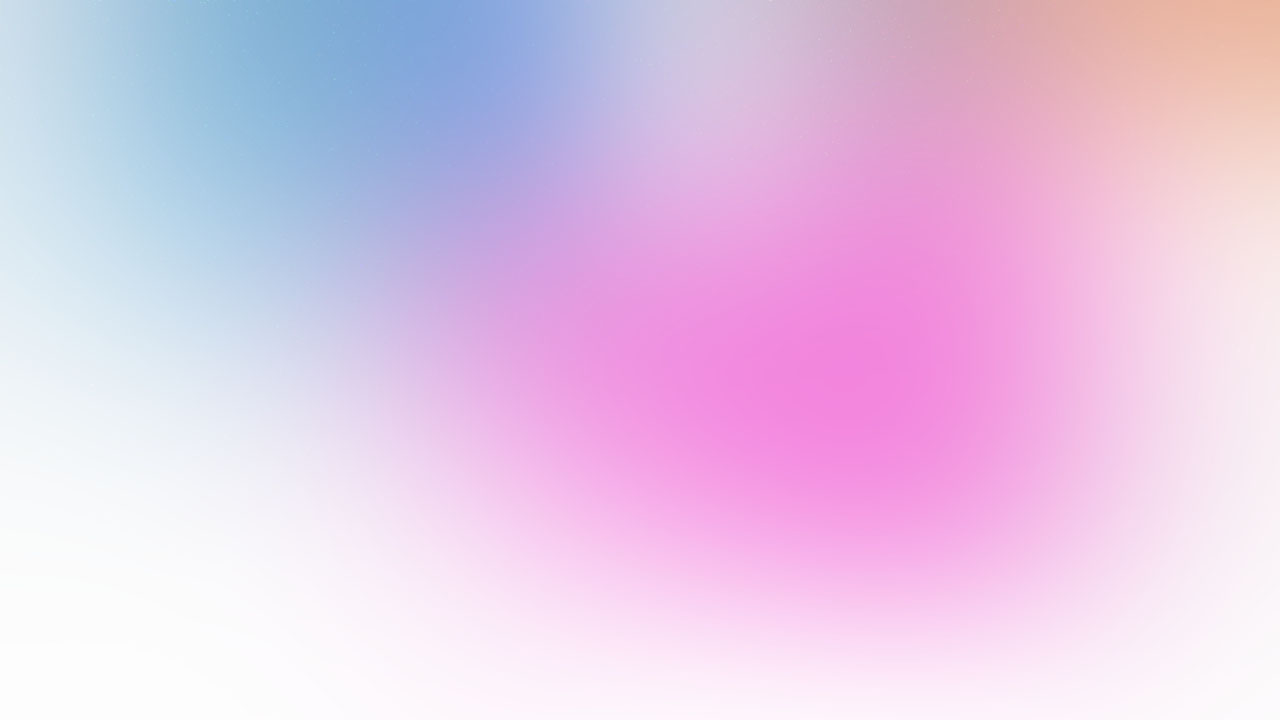
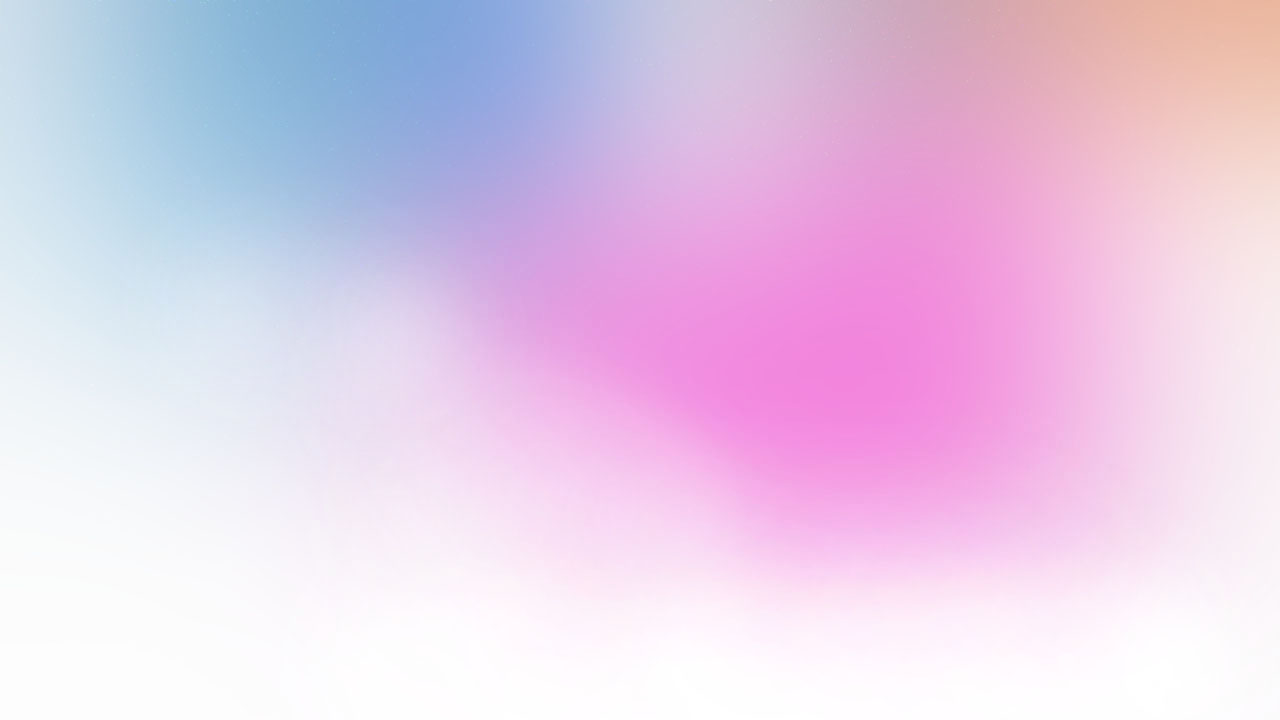
update

Changed region(s): [[0.4062, 0.5806, 0.8125, 0.9167]]

diff --git a/RRF-100-Plus-section-HTML5/exam-3/index.html b/RRF-100-Plus-section-HTML5/exam-3/index.html
@@ -22,10 +22,10 @@
             <div class="header-area">
                 <div class="container">
                     <div class="row">
-                        <div class="col-sm-6">
+                        <div class="col-md-6">
                             <h2><a href="#" class="logo">Nebula</a></h2>
                         </div>
-                        <div class="col-sm-6 text-right">
+                        <div class="col-md-6 text-right">
                             <a href="#" class="contact">Contact</a>
                         </div>
                     </div>
@@ -35,16 +35,20 @@
             
             <!-- Start Welcome hero area -->
             <div class="welcome-hero-area">
-                <div class="container">
-                    <div class="row">
-                        <div class="col-md-6">
-                            <div class="hero-text">
-                                <h1>Something started forming. <br/> And it will take shape soon.</h1>
-                                <p>Nebula Interactive is a technology company started in Spring 2015 by Lukas Muller and Jorge Sanz Perez over the internet. <a href="#" class="more">More</a></p>
+                <div class="hero-area-table">
+                    <div class="hero-area-table-cell">
+                        <div class="container">
+                            <div class="row">
+                                <div class="col-md-6">
+                                    <div class="hero-text">
+                                        <h1>Something started forming. <br/> And it will take shape soon.</h1>
+                                        <p>Nebula Interactive is a technology company started in Spring 2015 by Lukas Muller and Jorge Sanz Perez over the internet. <a href="#" class="more">More</a></p>
+                                    </div>
+                                </div>
                             </div>
                         </div>
                     </div>
-                </div>
+                 </div>
             </div>
             <!-- End Welcome hero area -->
 
@@ -52,10 +56,10 @@
             <div class="footer-area">
                 <div class="container">
                     <div class="row">
-                        <div class="col-sm-6">
+                        <div class="col-md-6">
                             &copy; 2015 Nebula Interactive
                         </div>
-                        <div class="col-sm-6 text-right">
+                        <div class="col-md-6 text-right">
                             <a href="#"><i class="fa fa-facebook"></i></a>
                             <a href="#"><i class="fa fa-twitter"></i></a>
                             <a href="#"><i class="fa fa-google-plus"></i></a>

diff --git a/RRF-100-Plus-section-HTML5/exam-3/assets/css/responsive.css b/RRF-100-Plus-section-HTML5/exam-3/assets/css/responsive.css
@@ -1,71 +1,19 @@
 /* Medium Layout: 1280px. */
-
-@media only screen and (min-width: 992px) and (max-width: 1200px) {}
-
+@media only screen and (min-width: 992px) and (max-width: 1200px) { 
+  
+    
+}
 /* Tablet Layout: 768px. */
-
-@media only screen and (min-width: 768px) and (max-width: 991px) {
+@media only screen and (min-width: 768px) and (max-width: 991px) { 
+ 
+    
 }
-
 /* Mobile Layout: 320px. */
-
-@media only screen and (max-width: 767px) {
-    .header-area {
-        text-align: center;
-        padding-top: 40px
-    }
-    .header-area .col-sm-6.text-right {
-        text-align: center;
-        margin-top: 15px;
-    }
-    .welcome-hero-area {
-        padding: 100px 0px;
-        text-align: center;
-    }
-    .hero-text h1 {
-        font-size: 36px
-    }
-    .footer-area {
-        text-align: center;
-    }
-    .footer-area .col-sm-6.text-right {
-        margin-top: 20px;
-        text-align: center;
-    }
-    .footer-area a {
-        margin: 0px 10px;
-    }
+@media only screen and (max-width: 767px) { 
+ 
+    
 }
-
 /* Wide Mobile Layout: 480px. */
+@media only screen and (min-width: 480px) and (max-width: 767px) { 
 
-@media only screen and (min-width: 480px) and (max-width: 767px) {
-	 .header-area {
-        text-align: center;
-        padding-top: 40px
-    }
-    .header-area .col-sm-6.text-right {
-        text-align: center;
-        margin-top: 15px;
-    }
-    .welcome-hero-area {
-        padding: 100px 0px;
-        text-align: center;
-    }
-    .hero-text{
-    	max-width: inherit;
-    }
-    .hero-text h1 {
-        font-size: 36px
-    }
-    .footer-area {
-        text-align: center;
-    }
-    .footer-area .col-sm-6.text-right {
-        margin-top: 20px;
-        text-align: center;
-    }
-    .footer-area a {
-        margin: 0px 10px;
-    }
 }

diff --git a/RRF-100-Plus-section-HTML5/exam-3/assets/css/style.css b/RRF-100-Plus-section-HTML5/exam-3/assets/css/style.css
@@ -4,6 +4,9 @@ img {
     max-width: 100%;
     height: auto;
 }
+html, body,.welcome-hero-area {
+  height: 100%
+}
 h1,
 h2,
 h3,
@@ -24,8 +27,9 @@ a:hover { text-decoration: none; color:inherit; }
 .nebula-wrapper {
   background-image: url(../img/bg.jpg);
   background-color: #ddd;
-  background-position: center;
+  background-position: center top;
   background-size: cover;
+  height: 100%;
 }
 a.logo {
     color: #262d30;
@@ -37,7 +41,11 @@ a.logo {
   margin: 0;
 }
 .header-area {
-  padding-top: 80px;
+  padding-top: 70px;
+  position: absolute;
+  left: 0;
+  top: 0;
+  width: 100%
 }
 .contact {
   color: #262d30;
@@ -53,15 +61,21 @@ a.logo {
   width: 0%;
   height: 2px;
   background-color: #333;
-  -webkit-transition: .3s;
   transition: .3s
 }
 .contact:hover:after, .more:hover:after {
   width: 100%
 }
-.welcome-hero-area {
-  padding: 180px 0px;
+.hero-area-table{
+  display: table;
+  width: 100%;
+  height: 100%;
+
 }
+.hero-area-table-cell{
+  display: table-cell;vertical-align: middle;
+}
+
 .hero-text h1 {
   font-weight: 300;
   line-height: 1.2;
@@ -72,7 +86,7 @@ a.logo {
 .hero-text {
   max-width: 490px;
   font-size: 16px;
-  line-height: 1.5;
+  line-height: 1.4;
 }
 .more {
     color: #262d30;
@@ -83,10 +97,13 @@ a.logo {
 
 .footer-area {
   border-top: 1px solid #ddd;
-  padding: ;
   color: #7f7f7f;
   font-size: 14px;
   padding: 30px 0px;
+  position: absolute;
+  left: 0;
+  bottom: 0;
+  width: 100%
 }
 .footer-area a {
     margin-left: 25px;
@@ -99,7 +116,6 @@ a.logo {
   line-height: 28px;
   text-align: center;
   font-size: 21px;
-  -webkit-transition: all .5s ease-in-out;
   transition: all .5s ease-in-out;
 }
 .footer-area i.fa-twitter {
